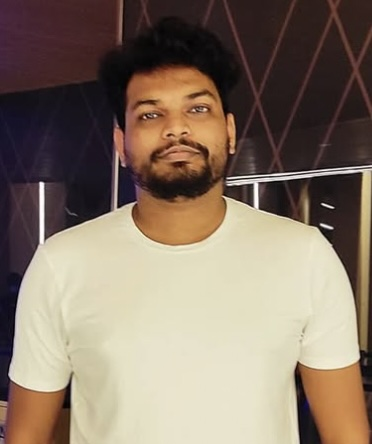
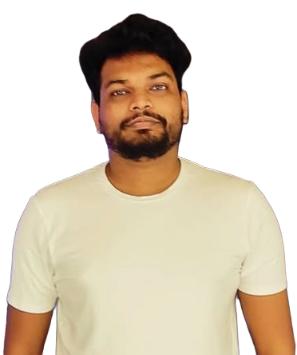
Image background changes

diff --git a/public/index.html b/public/index.html
@@ -24,7 +24,7 @@
       work correctly both with client-side routing and a non-root public URL.
       Learn how to configure a non-root public URL by running `npm run build`.
     -->
-    <title>React App</title>
+    <title>Sravan's Portfolio</title>
   </head>
   <body>
     <noscript>You need to enable JavaScript to run this app.</noscript>

diff --git a/src/components/sections/Hero.jsx b/src/components/sections/Hero.jsx
@@ -183,8 +183,9 @@ const Img = styled.img`
   height: 100%;
   max-width: 400px;
   max-height: 400px;
-  border: 2px solid ${({ theme }) => theme.primary};
-
+  border: 0;
+  border-radius: 0;
+  box-shadow: 0px 4px 20px rgba(255, 255, 255, 0.2); /* light glow */
   @media (max-width: 640px) {
     max-width: 280px;
     max-height: 280px;
